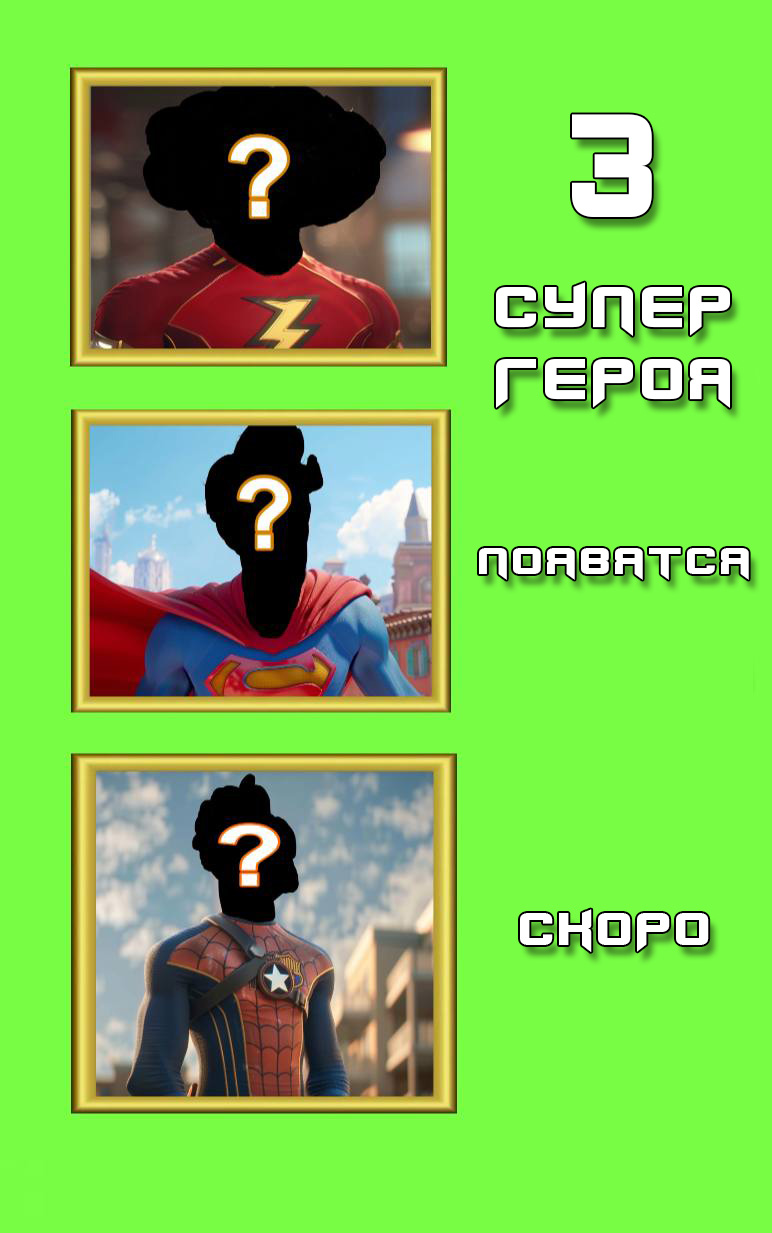
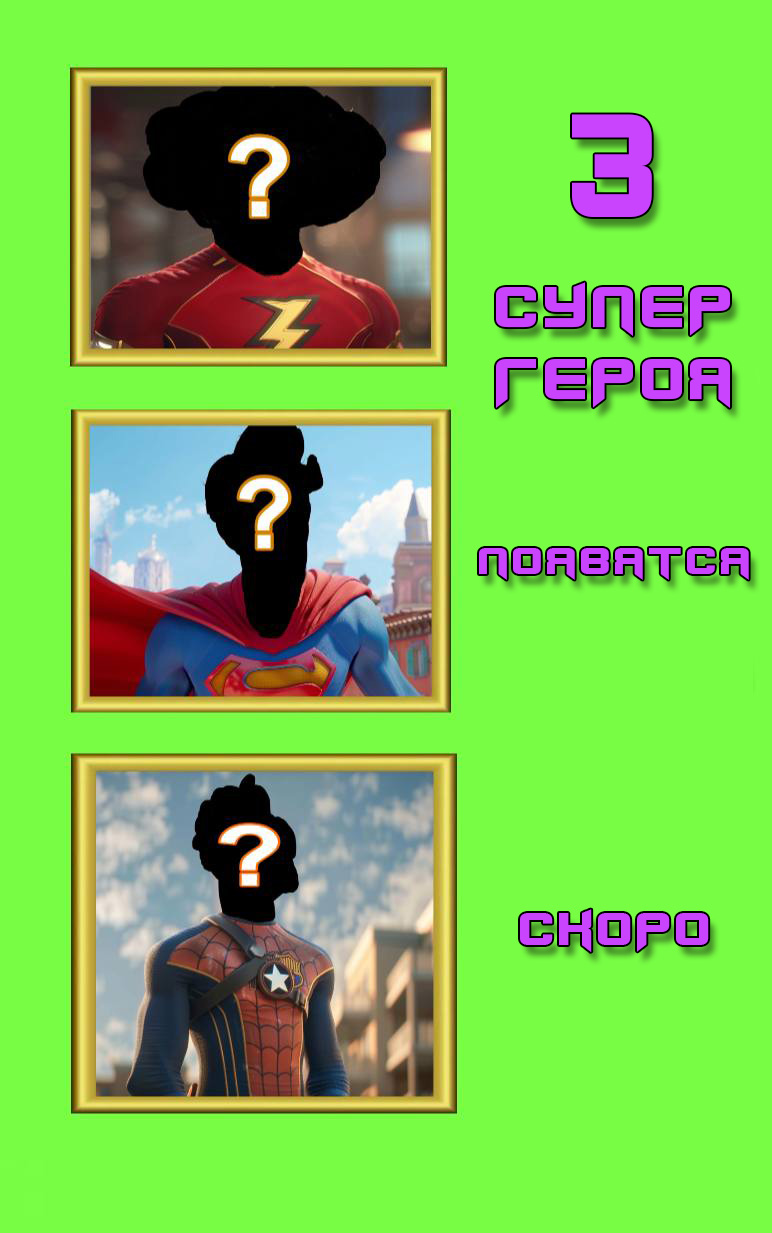
change tma color scheme

diff --git a/src/pages/MainPage/MainPage.tsx b/src/pages/MainPage/MainPage.tsx
@@ -2,7 +2,7 @@ import { Box, Flex, Heading, VStack, keyframes } from "@chakra-ui/react";
 import { useState, useEffect } from "react";
 import { useTranslation } from "react-i18next";
 import { MainText } from "src/shared/components/MainText";
-import logo from "src/assets/boot.webp";
+import logo from "src/assets/boot_2.png";
 import { motion } from "framer-motion";
 
 const bgImgURL = "url('src/assets/sfootball-main.jpg')";
@@ -65,16 +65,16 @@ export const Component = () => {
           animation={bootAnimation}
           onClick={() => setStarting(false)}
         />
-        <Box minW={{ base: "800px", md: "none" }} h="100%" bg="bg.green" />
+        <Box minW={{ base: "800px", md: "none" }} h="100%" bg="bg.green_1" />
       </VStack>
     );
   }
   return (
     <Box
       as={motion.div}
-      initial={{ opacity: 0, scale: 0.7 }}
-      animate={{ opacity: 1, scale: 1 }}
-      transition="0.7s linear"
+      initial={{ opacity: 0 }}
+      animate={{ opacity: 1 }}
+      transition="1s linear"
       display={"flex"}
       h={{ base: "calc(100vh - 104px)" }}
       w="100%"
@@ -84,17 +84,17 @@ export const Component = () => {
       bgSize="contain"
       bgPosition="center"
     >
-      <Flex
+      {/* <Flex
         justifyContent={{ base: "center" }}
         alignItems={"center"}
         w={{ base: "100%" }}
       >
-        {/* <Heading>Space football</Heading> */}
+        <Heading>Space football</Heading>
         <Heading>SFootball</Heading>
       </Flex>
       <Flex justifyContent={{ base: "center" }} alignItems={"center"} mt={10}>
-        {/* <MainText>{t("Game comming soon")}</MainText> */}
-      </Flex>
+        <MainText>{t("Game comming soon")}</MainText>
+      </Flex> */}
     </Box>
   );
 };

diff --git a/src/pages/Invite/Invite.tsx b/src/pages/Invite/Invite.tsx
@@ -67,9 +67,11 @@ export const Component: FC = () => {
           px={{ base: 6 }}
           py={{ base: 4 }}
           borderRadius={{ base: 8 }}
-          borderColor={"green.800"}
-          borderStyle={"solid"}
-          borderWidth={1}
+          // borderColor={"green.800"}
+          // borderStyle={"solid"}
+          // borderWidth={1}
+          bgColor="bg.violet"
+          boxShadow="2xl"
           justifyContent={"space-between"}
           alignItems={"center"}
           minW={"250px"}
@@ -102,9 +104,11 @@ export const Component: FC = () => {
               px={{ base: 6 }}
               py={{ base: 4 }}
               borderRadius={{ base: 8 }}
-              borderColor={"green.800"}
-              borderStyle={"solid"}
-              borderWidth={1}
+              // borderColor={"green.800"}
+              // borderStyle={"solid"}
+              // borderWidth={1}
+              bgColor="bg.violet"
+              boxShadow="2xl"
               justifyContent={"space-between"}
               alignItems={"center"}
               minW={"250px"}

diff --git a/src/shared/hooks/useInitDataTg.tsx b/src/shared/hooks/useInitDataTg.tsx
@@ -1,6 +1,6 @@
 import { useInitData } from "@vkruglikov/react-telegram-web-app";
 const mockTokenInitData =
-  "query_id=AAH7jJsfAAAAAPuMmx-H-fwl&user=%7B%22id%22%3A530287867%2C%22first_name%22%3A%22El%27dar%22%2C%22last_name%22%3A%22Nasyrov%22%2C%22username%22%3A%22buugaaga%22%2C%22language_code%22%3A%22en%22%2C%22allows_write_to_pm%22%3Atrue%7D&auth_date=1717057943&hash=774fbc91116b8917fdcdc6b58719a1f94066b69da607d35af0eebb0d08a2cdb9";
+  "query_id=AAFBKWwYAAAAAEEpbBgaRe_i&user=%7B%22id%22%3A409741633%2C%22first_name%22%3A%22%D0%90%D0%BB%D0%B8%22%2C%22last_name%22%3A%22%D0%91%D0%B0%D0%B9%D0%B1%D1%83%D1%82%D0%BE%D0%B2%22%2C%22username%22%3A%22Ali9Khan5%22%2C%22language_code%22%3A%22ru%22%2C%22allows_write_to_pm%22%3Atrue%7D&auth_date=1717406051&hash=0711e516fed6eda047823676437571fea5b9ad54bbb5e4aaeee717dc3e77086e";
 // export const generateTmaAuth = (initData: string) => mockTokenInitData;
 export const useInitDataTg = () => {
   const [_, initData] = useInitData();

diff --git a/src/pages/Tasks/TaskCard.tsx b/src/pages/Tasks/TaskCard.tsx
@@ -106,11 +106,15 @@ export const TaskCard: FC<Props> = ({ task, initDataStr, user }) => {
       flexGrow={1}
       alignItems={"center"}
       borderRadius={{ base: 8 }}
-      borderColor={"green.800"}
-      borderStyle={"solid"}
+      // borderColor="bg.violet"
+      bgColor="bg.violet"
+      boxShadow="2xl"
+      // p="6"
+      // rounded="md"
+      // borderStyle={"solid"}
       px={{ base: 4 }}
       py={{ base: 4 }}
-      borderWidth={1}
+      // borderWidth={1}
       gap={2}
       // wrap={"wrap"}
     >
@@ -166,7 +170,7 @@ export const TaskCard: FC<Props> = ({ task, initDataStr, user }) => {
         minW={"130px"}
       >
         <MainText mr={2}>{actionButtonTitle}</MainText>
-        {isTaskCompleted && <FaCheck color="green" />}
+        {isTaskCompleted && <FaCheck color="content.violet" />}
       </Button>
     </Flex>
   );

diff --git a/src/shared/style/bgGradient.ts b/src/shared/style/bgGradient.ts
@@ -1,5 +1,9 @@
 export const bgFooterGradient =
-  "linear-gradient(0deg, #524343 30%, rgb(23, 25, 35) 100%)";
+  // "linear-gradient(0deg, rgba(2,0,36,1) 0%, rgba(68,213,253,1) 100%)";
+  "linear-gradient(0deg, rgba(0,0,0,1) 0%, rgba(201,68,253,1) 100%)";
+// "linear-gradient(0deg, #524343 30%, rgb(23, 25, 35) 100%)";
 
 export const bgNavGradient =
-  "linear-gradient(0deg, rgb(23, 25, 35) 30%, #524343  100%)";
+  // "linear-gradient(0deg, rgba(68,213,253,1) 0%, rgba(2,0,36,1) 100%)";
+  "linear-gradient(0deg, rgba(201,68,253,1) 0%, rgba(0,0,0,1) 100%)";
+// "linear-gradient(0deg, rgb(23, 25, 35) 30%, #524343  100%)";

diff --git a/src/pages/Tasks/Tasks.tsx b/src/pages/Tasks/Tasks.tsx
@@ -39,9 +39,9 @@ export const Component: FC = () => {
       <Flex minW={"250px"} direction={"column"} gap={6}>
         {(isUserLoading || isLoading) && (
           <Stack w="100%">
-            <Skeleton height="20px" />
-            <Skeleton height="20px" />
-            <Skeleton height="20px" />
+            <Skeleton height="64px" />
+            <Skeleton height="64px" />
+            <Skeleton height="64px" />
           </Stack>
         )}
         {tasks?.map((task) => {

diff --git a/src/app/Navbar/Navbar.tsx b/src/app/Navbar/Navbar.tsx
@@ -48,6 +48,7 @@ export const Navbar: FC = () => {
     <Flex
       as="header"
       bgGradient={bgNavGradient}
+      // bgColor="bg.violet"
       justifyContent={"space-between"}
       alignItems={"center"}
       px={{ base: 8 }}
@@ -70,7 +71,7 @@ export const Navbar: FC = () => {
         </Flex>
       )}
       <Flex gap={4}>
-        <TonConnectButton />
+        <TonConnectButton className="ton-btn" />
       </Flex>
     </Flex>
   );

diff --git a/src/pages/User/User.tsx b/src/pages/User/User.tsx
@@ -96,7 +96,13 @@ export const Component: FC = () => {
         </VStack>
       )}
 
-      <List spacing={6}>
+      <List
+        spacing={6}
+        bgColor="bg.violet"
+        boxShadow="2xl"
+        p={{ base: "20px" }}
+        borderRadius={{ base: 8 }}
+      >
         <ListItem>
           <KeyItem> {t("Username")}:</KeyItem>
           <ValueItem>

diff --git a/src/theme/theme.ts b/src/theme/theme.ts
@@ -14,8 +14,15 @@ export const appTheme = extendTheme({
   },
   colors: {
     bg: {
+      violet: "#c944fd",
       green: "#96C26D",
-      green_1: "#D0F5AE",
+      green_1: "#78fd44",
+    },
+    content: {
+      violet: "#c944fd",
+      green: "#78fd44",
+      blue: "#44d5fd",
+      orange: "#fd6c44",
     },
   },
 

diff --git a/src/app/Footer/Footer.tsx b/src/app/Footer/Footer.tsx
@@ -39,6 +39,7 @@ export default function Footer() {
         justify={{ base: "space-around" }}
         align={{ base: "center", md: "center" }}
         bgGradient={bgFooterGradient}
+        // bg="bg.violet"
         borderRadius={{ base: "24px" }}
         overflow={"hidden"}
       >

diff --git a/src/App.css b/src/App.css
@@ -160,3 +160,19 @@
 ::-webkit-scrollbar-thumb:hover {
   background: #f45f02;
 }
+
+.ton-btn button {
+  background-color: #78fd44;
+}
+
+.ton-btn button div {
+  color: black;
+}
+
+.ton-btn button svg path {
+  fill: black;
+}
+
+main {
+  color: black;
+}
